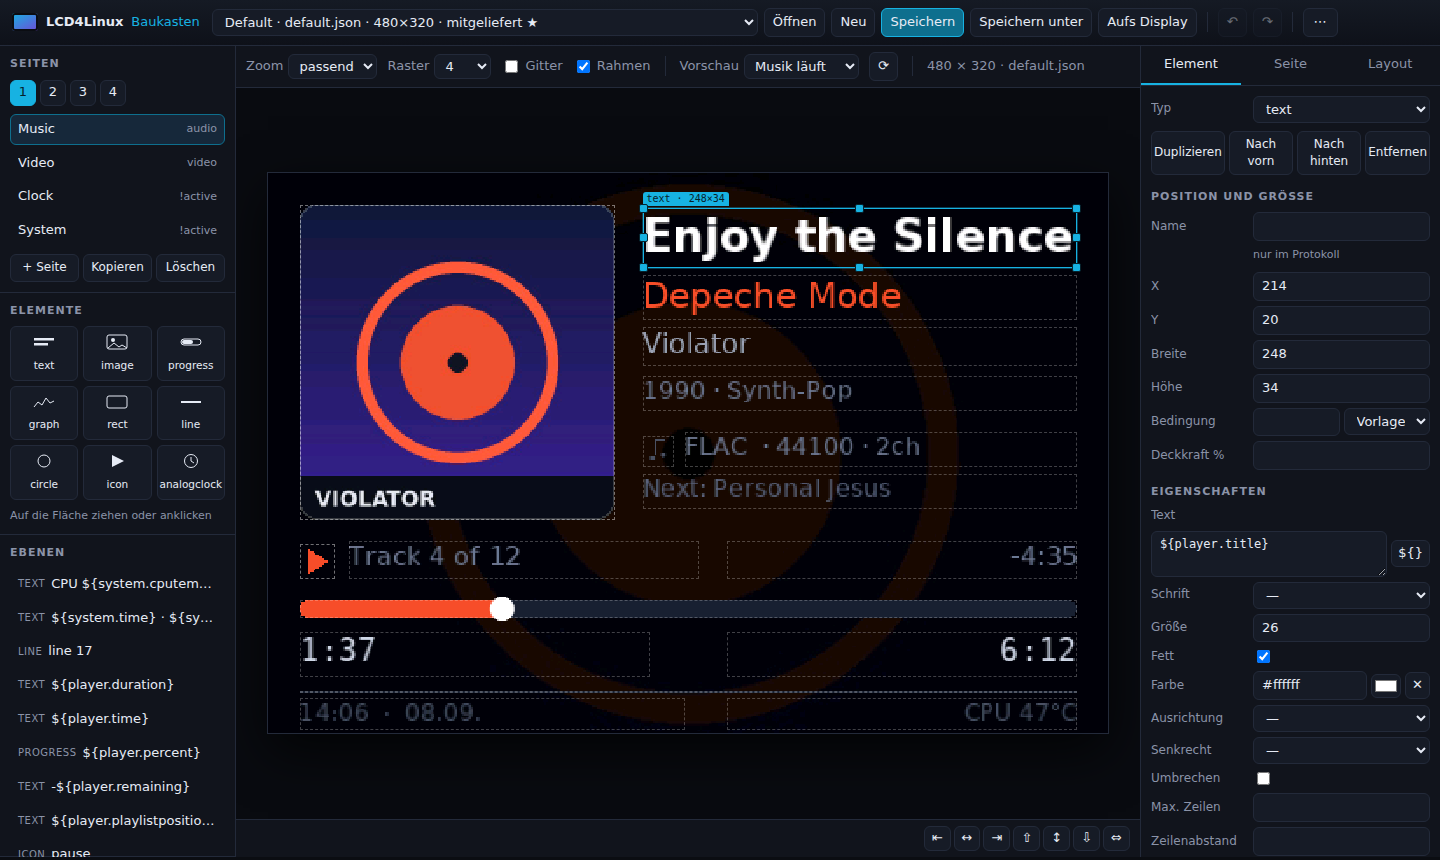
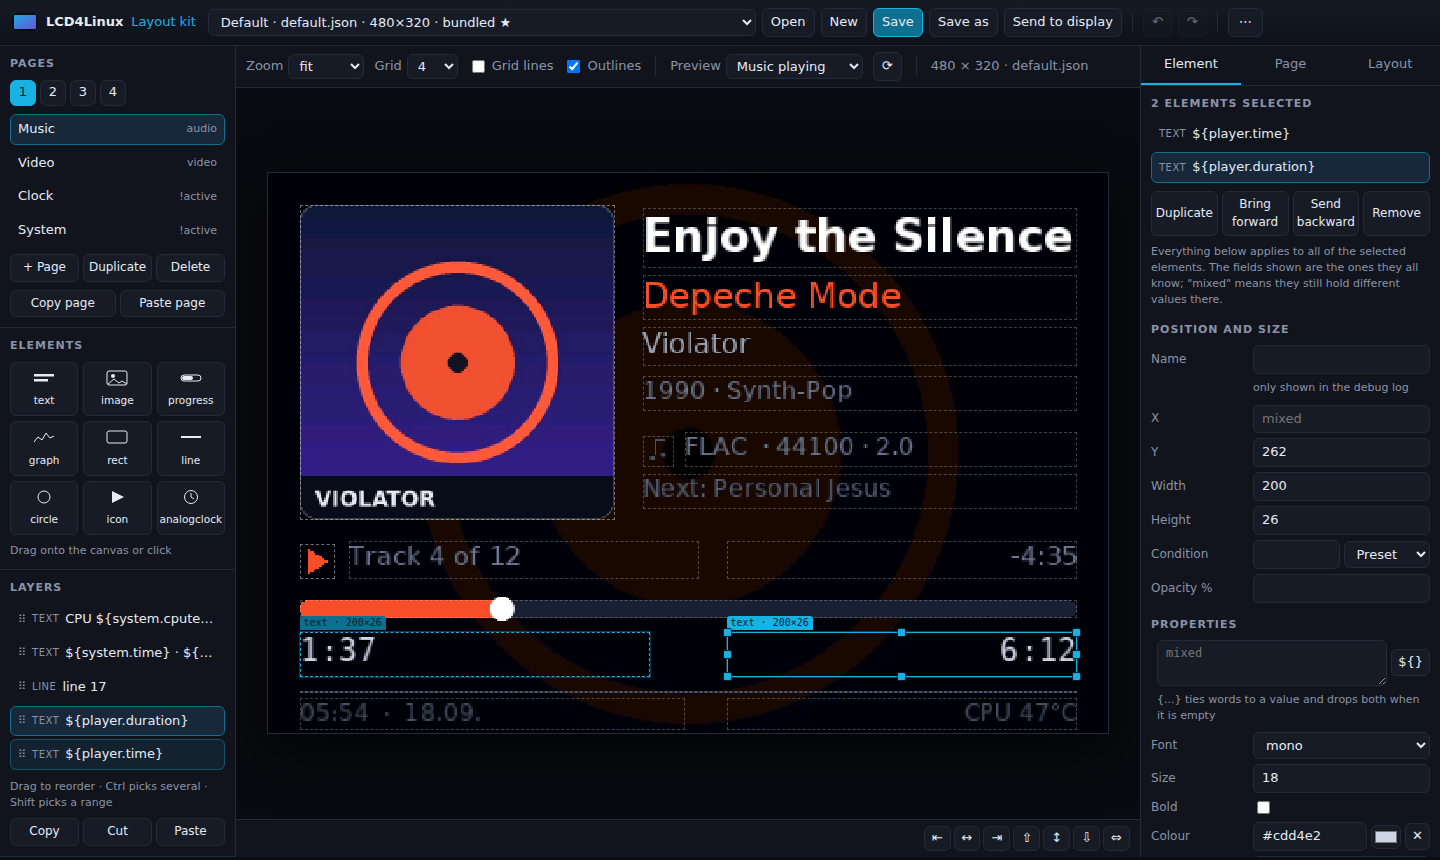
Webeditor: Seiten ins andere Layout kopieren, Screenshot neu
Seiten an Ort und Stelle zu duplizieren gab es schon, der Knopf hieß nur
"Kopieren" und las sich damit wie eine Ablage. Er heißt jetzt "Duplizieren",
und daneben steht die Ablage, die vorher fehlte:

"Seite kopieren" und "Seite einfügen" tragen eine ganze Seite samt ihrer
Elemente in ein anderes Layout. Die eingefügte Seite landet hinter der
aktuellen; Elemente, die auf der kleineren Fläche draußen lägen, kommen
zurück in Reichweite, und die Meldung nennt die Größe, aus der sie kamen.
Trägt das Ziel-Layout schon eine Seite dieses Namens, bekommt die neue ein
"(2)".

Seiten und Elemente haben getrennte Ablagen: eine kopierte Seite darf nicht
die Elemente wegwerfen, die eine Minute vorher kopiert wurden. Beide liegen
im Browser-Speicher, überleben also Layout-Wechsel und Reload.

Das Zurechtrücken beim Einfügen ist jetzt eine Funktion, die sich Elemente
und Seiten teilen.

Der Selftest prüft zusätzlich, dass jeder Knopf, den index.html mitbringt,
in editor.js auch angeschlossen ist.

resources/screenshots/webeditor.png ist neu aufgenommen, auf Englisch und
mit dem, was seither dazugekommen ist: die neuen Seitenknöpfe, die
Ebenenliste mit Ziehgriffen, die Ablage-Knöpfe, zwei gewählte Elemente auf
der Fläche und der Inspektor, der ihre gemeinsamen Felder zeigt.

Claude-Session: https://claude.ai/code/session_01Hf1LsAaz4tqBs42WaRi7rQ

diff --git a/resources/web/editor.js b/resources/web/editor.js
@@ -16,7 +16,13 @@ const TEXTS = {
     delete: 'Layout löschen', reloadservice: 'Dienst neu laden',
     testpattern: 'Testbild', nextpage: 'Nächste Seite',
     jsonview: 'JSON bearbeiten', pages: 'Seiten', pageadd: '+ Seite',
-    pagecopy: 'Kopieren', pagedel: 'Löschen', elements: 'Elemente',
+    pagecopy: 'Duplizieren', pagedel: 'Löschen', elements: 'Elemente',
+    pageclip: 'Seite kopieren', pagepaste: 'Seite einfügen',
+    pagecopied: 'Seite kopiert: %s',
+    pagepasted: 'Seite eingefügt · %d Element(e)',
+    pagepastedsize: 'Seite eingefügt · %d Element(e) aus %d × %d',
+    pagepastetitle: 'In der Ablage: %s',
+    pageclipempty: 'Keine Seite in der Ablage',
     palettehint: 'Auf die Fläche ziehen oder anklicken', layers: 'Ebenen',
     zoom: 'Zoom', fit: 'passend', grid: 'Raster', gridoff: 'aus',
     showgrid: 'Gitter', showboxes: 'Rahmen', scenario: 'Vorschau',
@@ -69,6 +75,12 @@ const TEXTS = {
     testpattern: 'Test pattern', nextpage: 'Next page',
     jsonview: 'Edit JSON', pages: 'Pages', pageadd: '+ Page',
     pagecopy: 'Duplicate', pagedel: 'Delete', elements: 'Elements',
+    pageclip: 'Copy page', pagepaste: 'Paste page',
+    pagecopied: 'Page copied: %s',
+    pagepasted: 'Page pasted · %d element(s)',
+    pagepastedsize: 'Page pasted · %d element(s) from %d × %d',
+    pagepastetitle: 'On the clipboard: %s',
+    pageclipempty: 'No page on the clipboard',
     palettehint: 'Drag onto the canvas or click', layers: 'Layers',
     zoom: 'Zoom', fit: 'fit', grid: 'Grid', gridoff: 'off',
     showgrid: 'Grid lines', showboxes: 'Outlines', scenario: 'Preview',
@@ -239,7 +251,7 @@ function markDirty(dirty) {
   $('dirty').hidden = !dirty;
   $('btn-undo').disabled = !S.undo.length;
   $('btn-redo').disabled = !S.redo.length;
-  refreshClipboardButton();
+  refreshClipboardButtons();
 }
 
 function restore(entry) {
@@ -530,26 +542,53 @@ function currentZoom() {
  * being edited and the page itself: it lives in this browser's storage,
  * which a second tab and a reload both still see. */
 const CLIP_KEY = 'lcd4linux.clipboard';
+const PAGE_CLIP_KEY = 'lcd4linux.pageclip';
 
+// Elements and pages keep their own: copying a page must not throw away the
+// elements copied a minute earlier.
 let clipboard = null;   // for a browser that refuses to store anything
+let pageClipboard = null;
 
-function readClipboard() {
+function readStore(key, memory) {
   try {
-    const raw = localStorage.getItem(CLIP_KEY);
+    const raw = localStorage.getItem(key);
     if (raw) return JSON.parse(raw);
   } catch (err) {
     // private mode, or someone else wrote nonsense into the key
   }
-  return clipboard;
+  return memory;
 }
 
-function writeClipboard(payload) {
-  clipboard = payload;
+function writeStore(key, payload) {
   try {
-    localStorage.setItem(CLIP_KEY, JSON.stringify(payload));
+    localStorage.setItem(key, JSON.stringify(payload));
   } catch (err) {
     // the in-memory copy still carries it through this session
   }
+}
+
+const readClipboard = () => readStore(CLIP_KEY, clipboard);
+const readPageClipboard = () => readStore(PAGE_CLIP_KEY, pageClipboard);
+
+function writeClipboard(payload) {
+  clipboard = payload;
+  writeStore(CLIP_KEY, payload);
+}
+
+function writePageClipboard(payload) {
+  pageClipboard = payload;
+  writeStore(PAGE_CLIP_KEY, payload);
+}
+
+/* Keeps a pasted element reachable: only a canvas too small to hold where it
+ * used to sit moves it, and ``step`` keeps a copy from hiding under the
+ * original it was made from. */
+function placePasted(copy, width, height, step) {
+  const box = geometry(copy);
+  if (!step && box.x <= width - 8 && box.y <= height - 8) return copy;
+  copy.x = Math.max(0, Math.min(width - 8, box.x + step));
+  copy.y = Math.max(0, Math.min(height - 8, box.y + step));
+  return copy;
 }
 
 function copySelection(cut) {
@@ -564,7 +603,7 @@ function copySelection(cut) {
   });
   if (cut) removeWidget();
   toast(t(cut ? 'cutdone' : 'copydone', chosen.length));
-  refreshClipboardButton();
+  refreshClipboardButtons();
 }
 
 function pasteClipboard() {
@@ -579,15 +618,7 @@ function pasteClipboard() {
   const same = data.file === S.file && data.page === S.page;
   const step = same ? Math.max(4, S.grid) : 0;
   const made = incoming.map((spec) => {
-    const copy = clone(spec);
-    const box = geometry(copy);
-    // A layout that is smaller than the one it came from would take the
-    // element off the canvas, so only then are the coordinates rewritten.
-    if (step || box.x > width - 8 || box.y > height - 8) {
-      copy.x = Math.max(0, Math.min(width - 8, box.x + step));
-      copy.y = Math.max(0, Math.min(height - 8, box.y + step));
-    }
-    items.push(copy);
+    items.push(placePasted(clone(spec), width, height, step));
     return items.length - 1;
   });
   setSelection(made, made[made.length - 1]);
@@ -601,12 +632,56 @@ function pasteClipboard() {
     : t('pastedsize', made.length, from[0] || '?', from[1] || '?'));
 }
 
-function refreshClipboardButton() {
+const pageTitle = (entry, index) =>
+  display(entry && entry.name) || t('pagename', index + 1);
+
+/* Whole pages travel the way elements do: into another layout as readily as
+ * into this one.  ``duplicatePage`` is the one that stays put. */
+function copyPage() {
+  const current = page();
+  if (!current) return;
+  writePageClipboard({
+    size: canvasSize(), file: S.file, page: clone(current),
+  });
+  toast(t('pagecopied', pageTitle(current, S.page)));
+  refreshClipboardButtons();
+}
+
+function pastePage() {
+  const data = readPageClipboard();
+  if (!data || !data.page) { toast(t('pageclipempty'), true); return; }
+  snapshot();
+  const [width, height] = canvasSize();
+  const copy = clone(data.page);
+  if (!Array.isArray(copy.widgets)) copy.widgets = [];
+  copy.widgets.forEach((spec) => placePasted(spec, width, height, 0));
+  // Pasted back into the layout it came from, the name would read twice.
+  if (copy.name && S.doc.pages.some((entry) => entry.name === copy.name)) {
+    copy.name = `${copy.name} (2)`;
+  }
+  S.doc.pages.splice(S.page + 1, 0, copy);
+  S.page += 1;
+  clearSelection();
+  drawAll();
+  const from = data.size || [];
+  toast(from[0] === width && from[1] === height
+    ? t('pagepasted', copy.widgets.length)
+    : t('pagepastedsize', copy.widgets.length, from[0] || '?', from[1] || '?'));
+}
+
+function refreshClipboardButtons() {
   const data = readClipboard();
   const count = data && Array.isArray(data.widgets) ? data.widgets.length : 0;
-  const button = $('btn-paste');
-  button.disabled = !count;
-  button.title = count ? t('pastetitle', count) : t('clipempty');
+  const paste = $('btn-paste');
+  paste.disabled = !count;
+  paste.title = count ? t('pastetitle', count) : t('clipempty');
+
+  const stored = readPageClipboard();
+  const button = $('btn-page-paste');
+  button.disabled = !(stored && stored.page);
+  button.title = stored && stored.page
+    ? t('pagepastetitle', pageTitle(stored.page, 0))
+    : t('pageclipempty');
 }
 
 /* ----------------------------------------------------------- selection */
@@ -1055,8 +1130,12 @@ function drawPageInspector(panel) {
   panel.appendChild(el('div', { class: 'group' },
     el('div', { class: 'row' },
       el('button', { text: t('pageadd'), onclick: addPage }),
-      el('button', { text: t('pagecopy'), onclick: copyPage }),
+      el('button', { text: t('pagecopy'), onclick: duplicatePage }),
       el('button', { class: 'danger', text: t('pagedel'), onclick: deletePage }),
+    ),
+    el('div', { class: 'row' },
+      el('button', { text: t('pageclip'), onclick: copyPage }),
+      el('button', { text: t('pagepaste'), onclick: pastePage }),
     ),
     el('div', { class: 'row' },
       el('button', { text: '◀', onclick: () => movePage(-1) }),
@@ -1285,12 +1364,13 @@ function addPage() {
   drawAll();
 }
 
-function copyPage() {
+function duplicatePage() {
   snapshot();
   const copy = clone(page());
   copy.name = `${copy.name || t('pagename', S.page + 1)} (2)`;
   S.doc.pages.splice(S.page + 1, 0, copy);
   S.page += 1;
+  clearSelection();
   drawAll();
 }
 
@@ -1600,7 +1680,9 @@ function bindEvents() {
   $('btn-paste').addEventListener('click', pasteClipboard);
   bindLayerList();
   $('btn-page-add').addEventListener('click', addPage);
-  $('btn-page-copy').addEventListener('click', copyPage);
+  $('btn-page-copy').addEventListener('click', duplicatePage);
+  $('btn-page-clip').addEventListener('click', copyPage);
+  $('btn-page-paste').addEventListener('click', pastePage);
   $('btn-page-del').addEventListener('click', deletePage);
 
   $('zoom').addEventListener('change', (event) => {
@@ -1659,7 +1741,9 @@ function bindEvents() {
   // A copy made in a second tab is the same clipboard, so the button there
   // has to notice it.
   window.addEventListener('storage', (event) => {
-    if (event.key === CLIP_KEY) refreshClipboardButton();
+    if (event.key === CLIP_KEY || event.key === PAGE_CLIP_KEY) {
+      refreshClipboardButtons();
+    }
   });
   window.addEventListener('keydown', keyboard);
   window.addEventListener('resize', () => { if (S.zoom === 'fit') drawCanvas(); });

diff --git a/resources/web/index.html b/resources/web/index.html
@@ -58,8 +58,12 @@
       <div id="page-list" class="list"></div>
       <div class="row">
         <button id="btn-page-add" data-i18n="pageadd">+ Seite</button>
-        <button id="btn-page-copy" data-i18n="pagecopy">Kopieren</button>
+        <button id="btn-page-copy" data-i18n="pagecopy">Duplizieren</button>
         <button id="btn-page-del" data-i18n="pagedel">Löschen</button>
+      </div>
+      <div class="row">
+        <button id="btn-page-clip" data-i18n="pageclip">Seite kopieren</button>
+        <button id="btn-page-paste" data-i18n="pagepaste">Seite einfügen</button>
       </div>
     </section>
 

diff --git a/tools/selftest.py b/tools/selftest.py
@@ -2003,8 +2003,9 @@ def test_web_editor():
           and "t('mixed')" in editor_source,
           "elements of different types offer the fields they share")
     # The clipboard has to outlive the layout, so it cannot be a variable.
-    check("localStorage.getItem(CLIP_KEY)" in editor_source
-          and "localStorage.setItem(CLIP_KEY" in editor_source,
+    check("localStorage.getItem(key)" in editor_source
+          and "localStorage.setItem(key" in editor_source
+          and "readStore(CLIP_KEY" in editor_source,
           "the clipboard survives a layout change and a reload")
     # Rebuilding the list inside dragstart would cancel the drag.
     dragstart = editor_source.split("row.addEventListener('dragstart'", 1)[-1]
@@ -2012,10 +2013,25 @@ def test_web_editor():
     check("drawLayers" not in dragstart and "select(" not in dragstart,
           "starting a layer drag does not rebuild the list under the cursor")
 
+    # A page travels between layouts too, and its clipboard is its own: a
+    # copied page must not throw away copied elements.
+    check("function duplicatePage" in editor_source
+          and "function pastePage" in editor_source,
+          "a page can be duplicated in place and pasted into another layout")
+    check("PAGE_CLIP_KEY" in editor_source
+          and "readStore(PAGE_CLIP_KEY" in editor_source,
+          "pages and elements keep separate clipboards")
+
     page_source = _read_text(os.path.join(ROOT, "resources", "web",
                                           "index.html"))
-    for button in ("btn-copy", "btn-cut", "btn-paste"):
+    for button in ("btn-copy", "btn-cut", "btn-paste",
+                   "btn-page-copy", "btn-page-clip", "btn-page-paste"):
         check('id="%s"' % button in page_source, "the page has #%s" % button)
+    # Every button the page carries has to be wired up, or it does nothing.
+    for match in re.finditer(r'<button id="([^"]+)"', page_source):
+        name = match.group(1)
+        check("$('%s')" % name in editor_source,
+              "#%s is wired to something" % name)
 
     # -- a layout the editor offers must be one the renderer accepts ------
     for kind, preset in sorted(webschema.NEW_WIDGET.items()):

diff --git a/docs/LAYOUT.md b/docs/LAYOUT.md
@@ -110,7 +110,11 @@ small web server that serves an editor.
 `http://<box-ip>:8050/`. It runs in any current browser, phone and tablet
 included, and loads nothing from the internet.
 
-* **Pages**: create, copy, reorder, delete — the tabs top left.
+* **Pages**: create, duplicate, reorder, delete — the tabs top left.
+  *Copy page* and *Paste page* carry a whole page, elements and all, into
+  another layout; a page pasted into a canvas too small for it keeps every
+  element in reach. Pages and elements have separate clipboards, so copying
+  one does not throw away the other.
 * **Elements**: drag from the palette or click to place — text, image,
   progress bar, graph, rectangle, line, circle, icon, analogue clock.
 * **Move and resize** with the mouse, snapping to the grid. `Alt` disables
